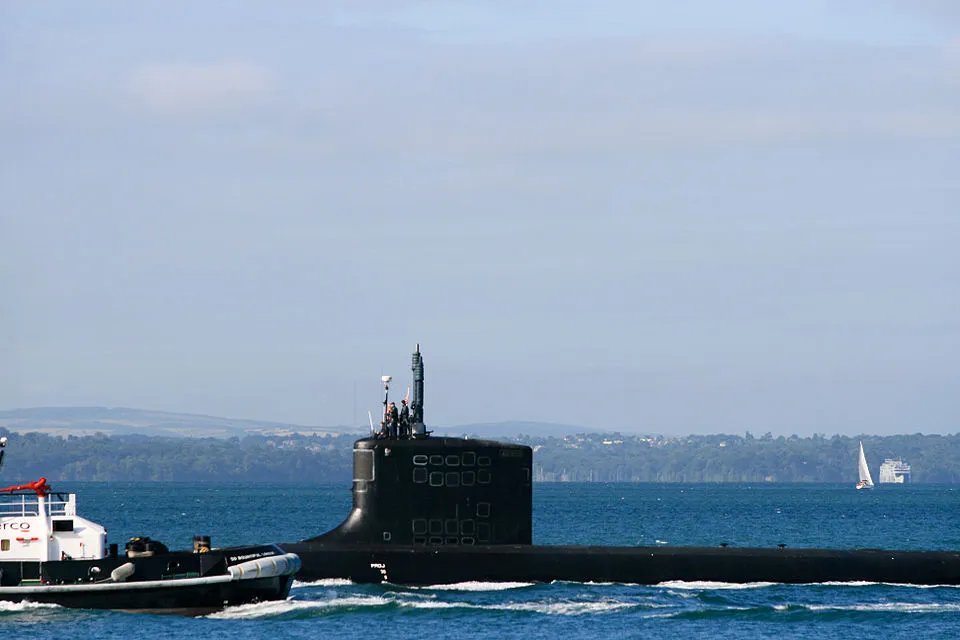
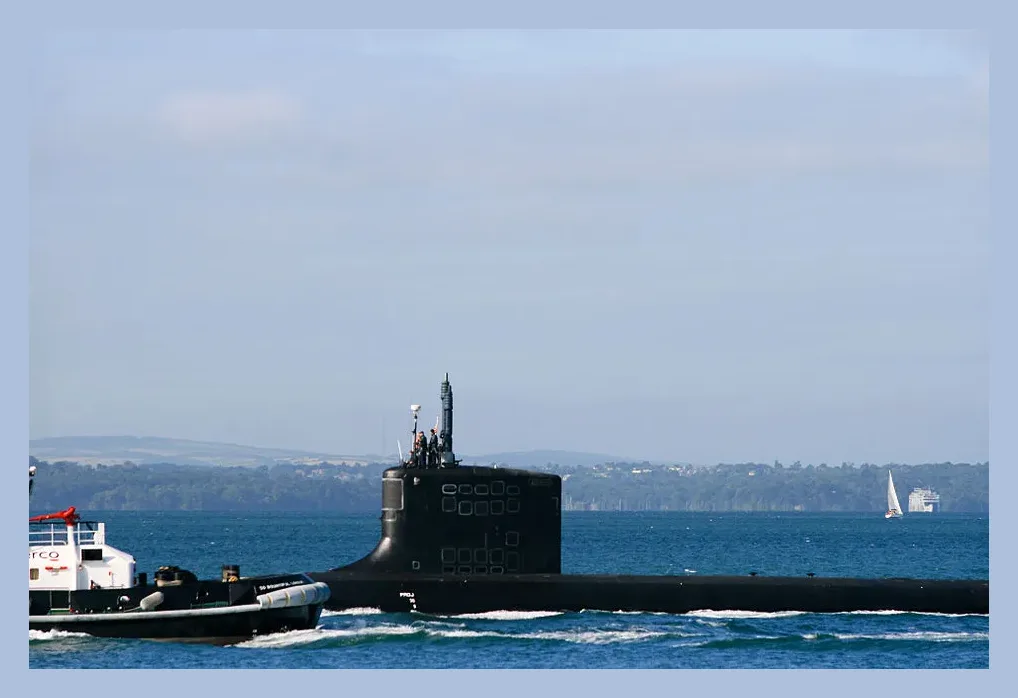
figures: make the whitespace gate look for difference, not darkness
check-figure-whitespace.py goes through convert-figures.crop_whitespace(),
which treated only pixels DARKER than the background as content. Any figure
standing on a dark canvas therefore looked like 20-50% empty margin: the
aegospotami painting reported 50% removable height where the band is a painted
sky (pixel std 36.8), and the neutral-grey aircraft plates reported 26-43% for
what is aircraft against sky.

Content is now 'differs from the background by more than 8 levels', in either
direction. That is the same criterion the margin normalizer already uses, so
the gate and the tool finally agree.

With the false positives gone, the seven figures that were parked in
data/margin-skip.txt are normalized like everything else and the list is empty
again (kept as a documented escape hatch).

Verified: whitespace gate over all 1678 changed images = 0 failures,
perf gate passes, 231 tests pass, public/ 504MB.

Changed region(s): [[0.0, 0.5312, 1.0, 1.0]]

diff --git a/scripts/convert-figures.py b/scripts/convert-figures.py
@@ -80,8 +80,10 @@ def crop_whitespace(img, padding_pct=0.02, threshold=None):
         # threshold = 背景色 - 8，确保比背景稍暗的像素被识别为内容
         threshold = max(0, bg_level - 8)
 
-    # 行/列级别的内容检测：每行/列中 < threshold 的像素比例
-    content_mask = gray < threshold
+    # 行/列级别的内容检测：与背景差异明显的像素比例。
+    # 只找"比背景暗"的像素会把深色画面（油画天空、中性灰机身）整片当成留白，
+    # 这里改为双向判定：明显亮于或暗于背景都算内容。
+    content_mask = np.abs(gray.astype(np.int16) - bg_level) > 8
     row_content_pct = content_mask.mean(axis=1)  # 每行的内容像素比例
     col_content_pct = content_mask.mean(axis=0)  # 每列的内容像素比例
 

diff --git a/openspec/changes/uniform-figure-margins/tasks.md b/openspec/changes/uniform-figure-margins/tasks.md
@@ -41,6 +41,7 @@
 - 检测口径修正 2：把全透明像素排除出内容判定，并只用不透明角像素估计背景色。原因：WebP 在完全透明区域不保留有意义的 RGB，二次读取时透明补白会被误判成内容，导致重复补白。
 - 检测口径修正 3：幂等判定增加几何兜底——若重新推导出的目标尺寸与当前文件尺寸相同，直接跳过（噪声让边界像素测量不可靠时防止无意义重编码）。
 - 检测口径修正 4（CI 暴露）：留白同时用于上下两侧，超宽横条按「3% 宽」会吃掉 20%+ 高度而被留白门禁拦下。改为 `pad = min(3% 宽, 11% 高)`，宽高比 >3.7:1 的图上下留白在屏幕上略窄（约 15px vs 22px）。
-- 新增 `data/margin-skip.txt`：7 张图的边界检测把自身画面（深色油画天空、机身中性灰、渐变）判成留白（边带 std 6.2–53.6），裁切会切掉真实像素，改为登记豁免并保持原样。
+- 新增 `data/margin-skip.txt` 作为兜底豁免入口（当前为空）。
+- 检测口径修正 5（CI 暴露，最后一处）：`check-figure-whitespace.py` 走的是 `convert-figures.crop_whitespace`，它只把「比背景暗」的像素算作内容，于是深色画面（油画天空 std=36.8、中性灰机身 std=14.8）被整片判成留白并报 20%+ 违规。判据改为「与背景差异 >8」后，7 张误报全部消失，它们也正常参与了归一。
 - 体积不增反降：`media/` 253.1MB → 216.2MB，裁掉的存量留白多于补上的统一留白。
 - 暗色模式观感仍需人眼确认（见 `docs/PERF-BASELINE.md`「豁免与已知边界」）。

diff --git a/docs/PERF-BASELINE.md b/docs/PERF-BASELINE.md
@@ -194,6 +194,6 @@
 - 4 个多帧 WebP（演示动画）不参与归一，逐帧补白会掉帧。
 - 2 张整图同色图片无法定位内容边界，跳过。
 - 40 张小尺寸图标（<400px 宽，行内图标）不补白。
-- 7 张登记在 `data/margin-skip.txt`：`aegospotami-battle`、`pengcheng-battle`、`weapons/{F-22,F-35A,Tomahawk,Virginia}`、`agent-attention-2024/fig8_agent_visualize`。这些图的边界检测把自身画面（深色油画天空、机身中性灰、渐变）判成留白，边带 std 达 6.2–53.6，属内容；按门禁裁切会切掉真实像素，因此保持原样并登记原因。
+- 留白门禁的判据已改为双向：原先只把「比背景暗」的像素算内容，深色画面（油画天空、中性灰机身）会被整片判成留白，7 张图因此被误报。改成「与背景差异 >8」后误报消失，这 7 张也正常参与了归一。`data/margin-skip.txt` 因此清空，仅保留为兜底入口。
 - 超宽横条（宽高比 >3.7:1）的上下留白按高度 11% 收口，屏幕上比常规图略窄（约 15px vs 22px），否则上下两侧合计会超过留白门禁的 20%。
 - 暗色模式下的观感需人眼确认：图内留白取的是图片自身背景色，白底图在暗色模式下会显示为一块更大的白底（与图本身同色，不产生描边）。

diff --git a/docs/TESTRESULTS.md b/docs/TESTRESULTS.md
@@ -1,6 +1,6 @@
 # Test Results
 
-**Run:** 2026-10-30T09:50:14.451Z
+**Run:** 2026-10-30T09:59:25.258Z
 
 ## Summary
 
@@ -9,7 +9,7 @@
 | Total | 231 |
 | Passed | 231 |
 | Failed | 0 |
-| Duration | 3.83s |
+| Duration | 6.30s |
 
 ## Per-Module Results
 
